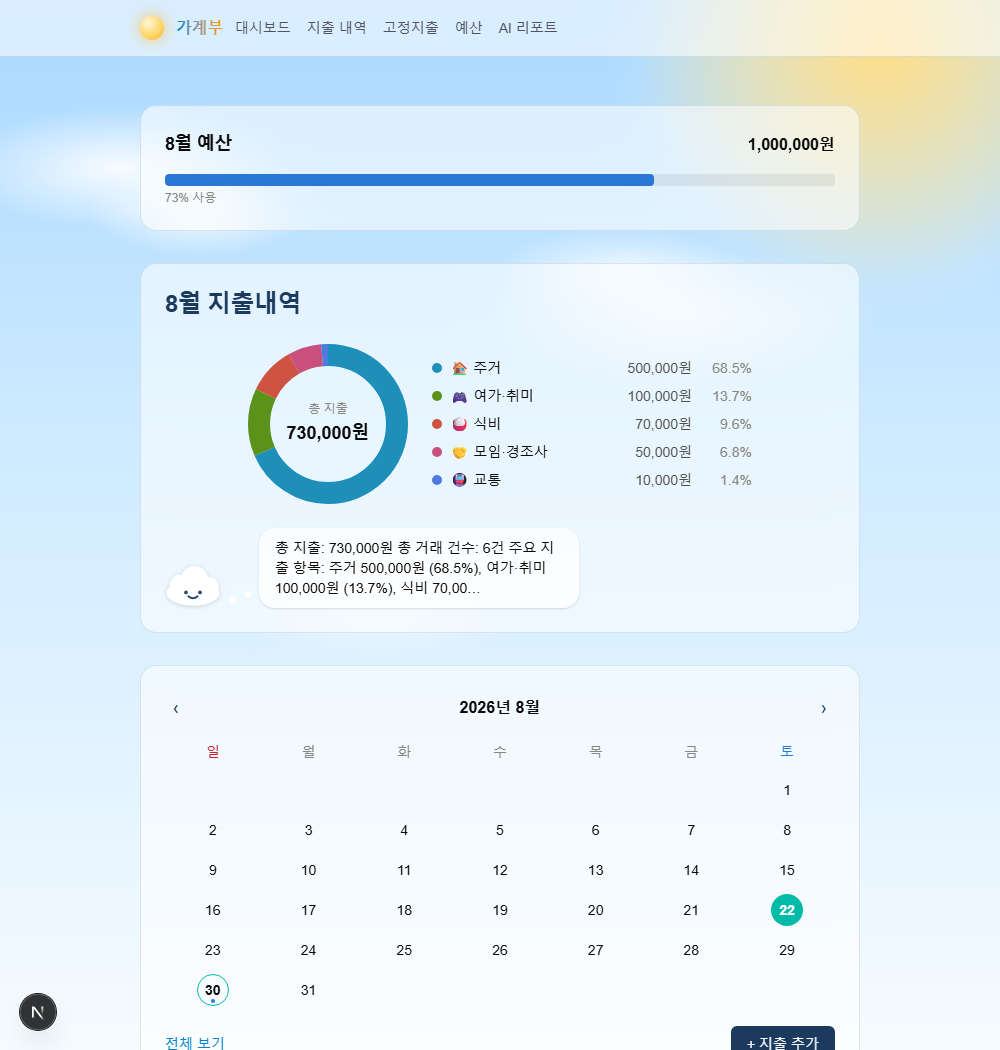
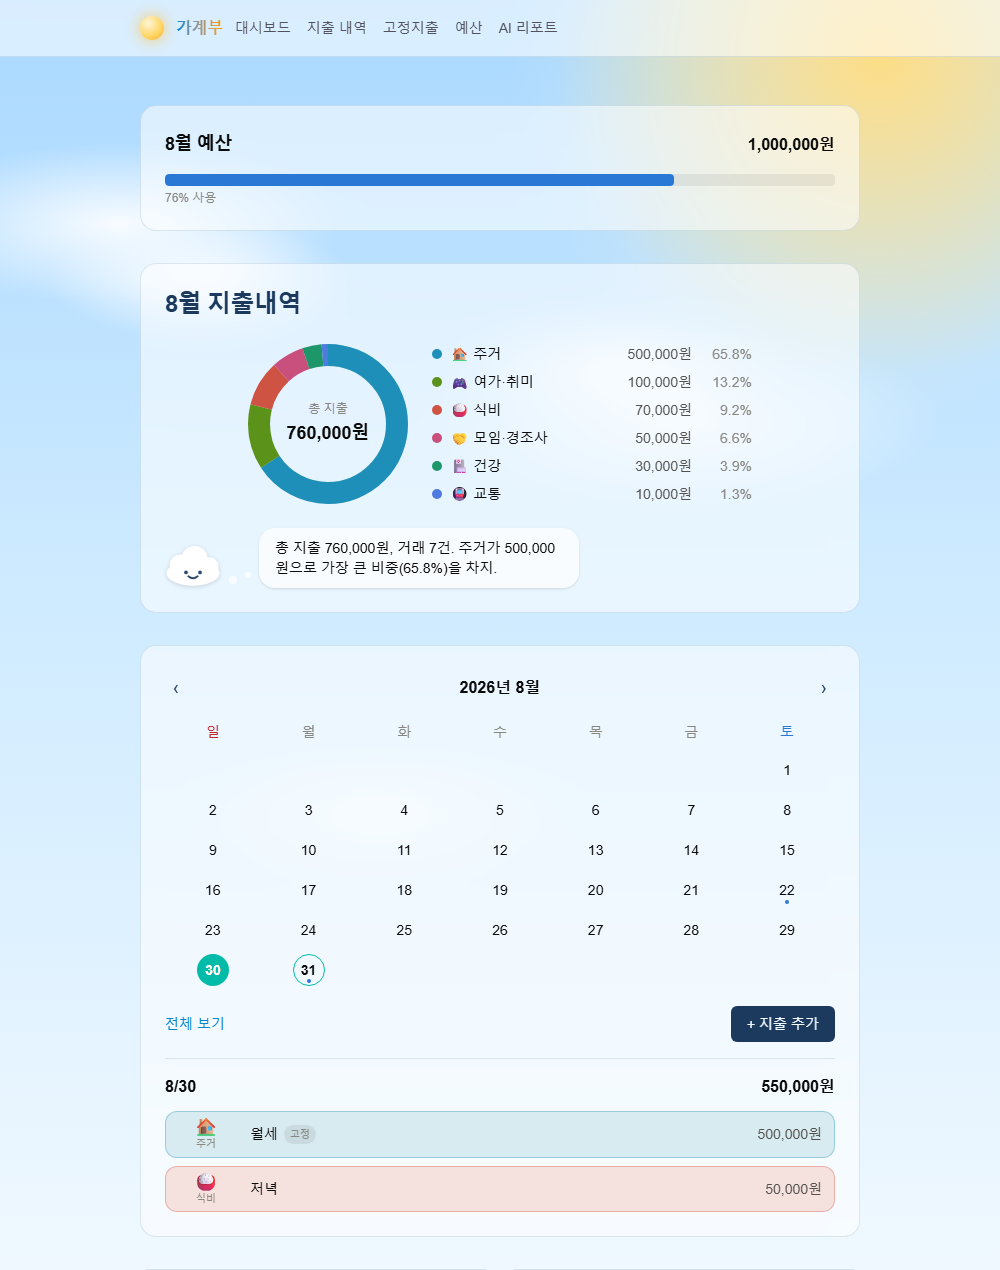
Unify README screenshot dimensions
home-light.png and dashboard-dark.png had drifted to different
aspect ratios (1050px vs 1310px tall) after being re-captured
separately, so they rendered at mismatched heights side by side.
Both are now cropped to the same 1000x1270, each ending at a clean
section boundary (home: the selected day's expense cards; dashboard:
the full heatmap).

diff --git a/README.md b/README.md
@@ -11,8 +11,8 @@
 ![OpenRouter](https://img.shields.io/badge/AI-OpenRouter-8A5CF5?style=flat)
 
 <p>
-  <img src="docs/screenshots/home-light.png?v=2" width="49%" alt="홈 화면 (라이트 모드) — 도넛 차트, AI 요약, 달력" />
-  <img src="docs/screenshots/dashboard-dark.png?v=3" width="49%" alt="대시보드 (다크 모드) — 이번 달 메모, 카테고리별 지출, 지출 히트맵" />
+  <img src="docs/screenshots/home-light.png?v=3" width="49%" alt="홈 화면 (라이트 모드) — 도넛 차트, AI 요약, 달력, 선택한 날짜의 지출 카드" />
+  <img src="docs/screenshots/dashboard-dark.png?v=4" width="49%" alt="대시보드 (다크 모드) — 이번 달 메모, 카테고리별 지출, 지출 히트맵" />
 </p>
 
 ## ✨ 주요 기능
